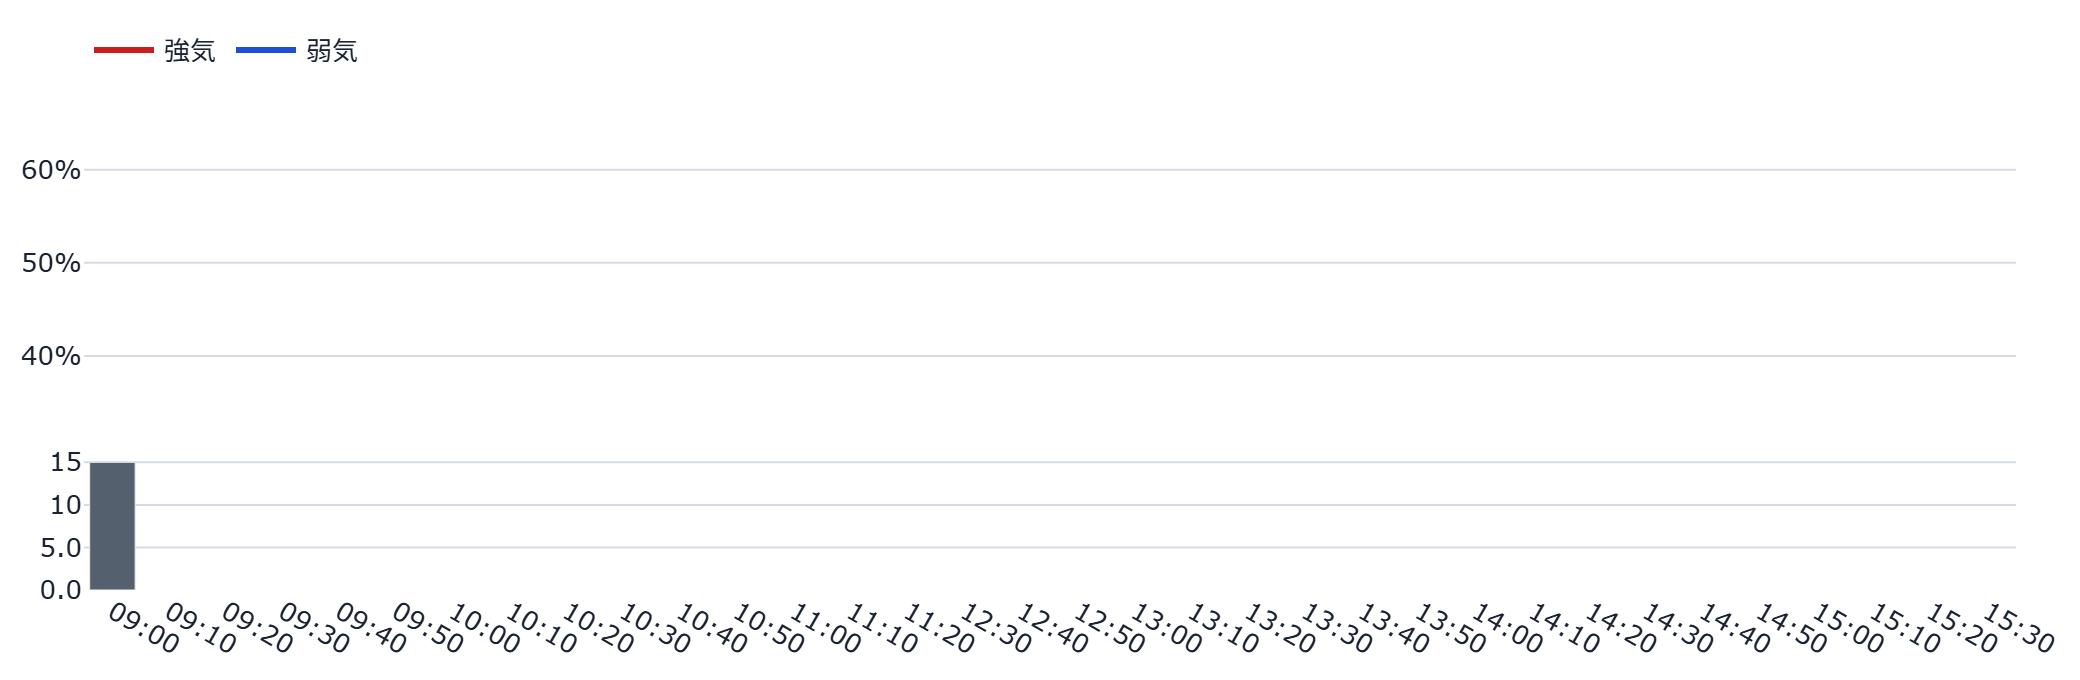
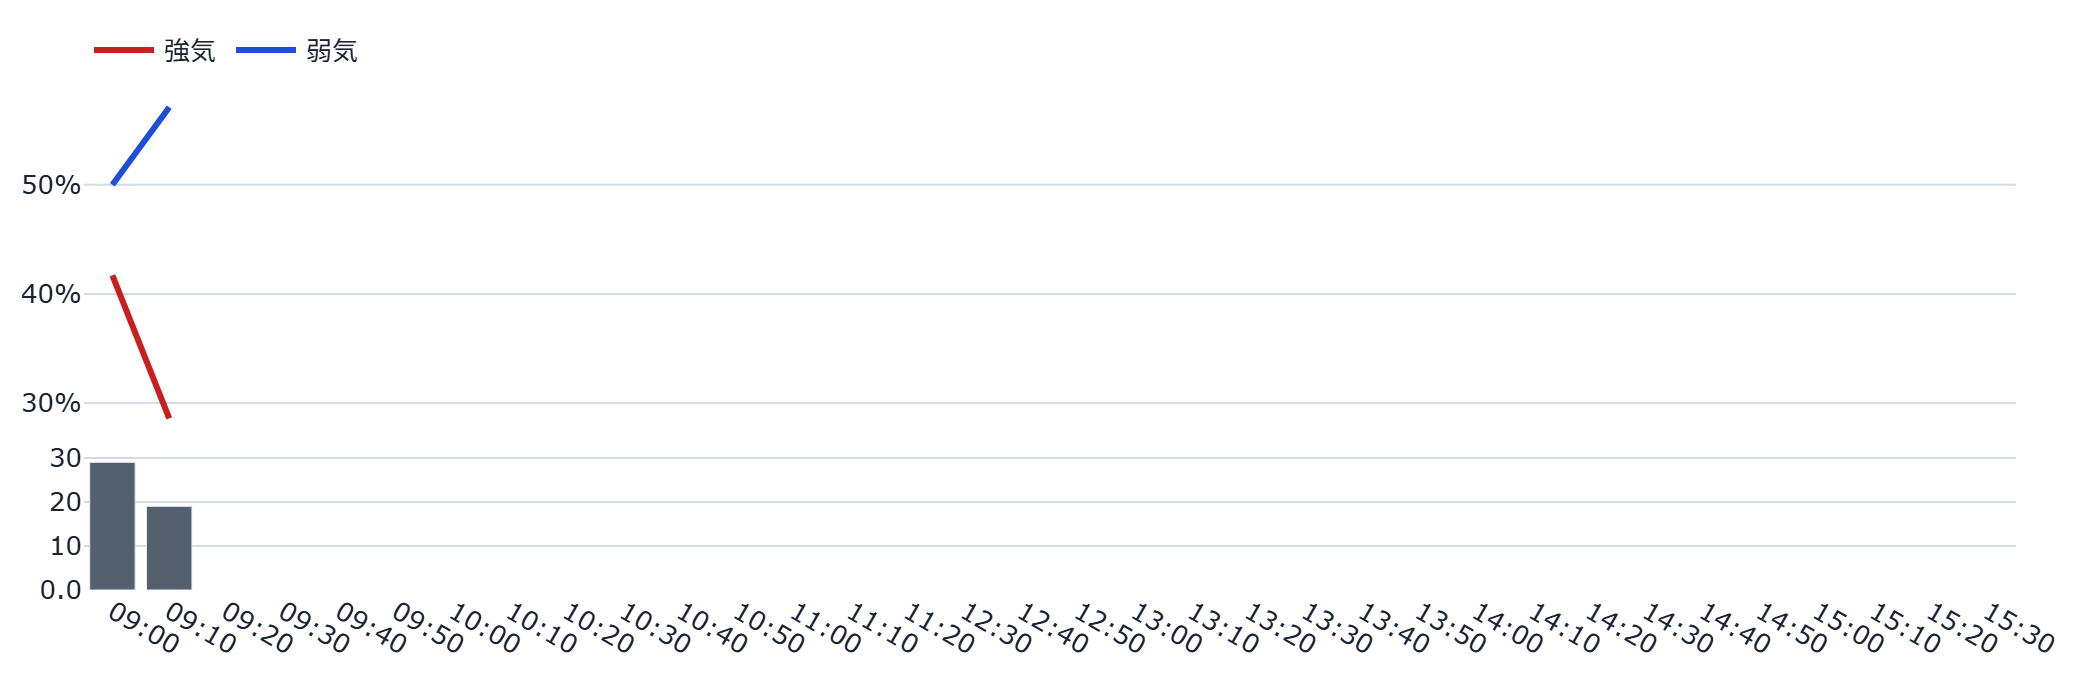
auto: refresh static dashboard (2026-11-28 09:26:10 JST)

diff --git a/docs/index.html b/docs/index.html
@@ -162,10 +162,10 @@
         <span class="price">8,450円</span>
         <span class="chg" style="color:#C81E1E">+8.86%</span><span class='caption'> 11/27終値・前営業日比</span>
       </div>
-      <p class="caption">更新時刻: 2026-11-28T09:06:40（データは1分間隔で自動生成され、このページも
+      <p class="caption">更新時刻: 2026-11-28T09:16:42（データは1分間隔で自動生成され、このページも
       60秒毎に自動再読み込みされます）</p>
       
-      <p id='visit-count-badge' class='caption'>👀 累計閲覧数: 15,634</p>
+      <p id='visit-count-badge' class='caption'>👀 累計閲覧数: 15,636</p>
       <p id='like-button-wrap' class='caption'><button id='like-button' type='button' style='cursor:pointer;border:1px solid var(--border);border-radius:6px;padding:1px 10px;margin-right:6px;background:var(--panel);color:var(--text);font-size:1em;vertical-align:middle'>👍</button><span id='like-count-label'>このダッシュボードが役に立ったら押してください（累計 4 いいね）</span></p>
 
       <!-- ★2026-11-23(ユーザー指示「おにやの公開ダッシュボードもタブの再整理・分割」): AI考察を独立タブ(先頭・既定)にし、
@@ -185,11 +185,11 @@
 
       <section data-tab-panel="aiinsight">
         <h2>🤖 AI考察</h2>
-        <div class='sum3' id='sum3'><div class='l'><span class='k'>値位置・時間外</span><span>285A 8,450円(11/27終値・前営業日比 +8.86%)｜11/28 09:06時点｜時間外(東証最終値比) PTS -1.48%・ADR -1.62%・DEX -1.78%</span></div><div class='l'><span class='k'>需給・セリクラ</span><span>前営業日(2026-11-27)のセリクラ成立チェック・大引け時点で確定(0/3)｜板の買い/売り比 0.77(11/27 15:30時点)</span></div><div class='l'><span class='k'>掲示板の心理</span><span>投稿の弱気 39.4%・強気 49.8%(本日1,825件)｜11/28 09:06時点</span></div><div class='n'>公開レコードの数値の言い換えです(予想ではありません)。</div></div>
+        <div class='sum3' id='sum3'><div class='l'><span class='k'>値位置・時間外</span><span>285A 8,450円(11/27終値・前営業日比 +8.86%)｜11/28 09:16時点｜時間外(東証最終値比) PTS -1.48%・ADR -1.62%・DEX -1.76%</span></div><div class='l'><span class='k'>需給・セリクラ</span><span>前営業日(2026-11-27)のセリクラ成立チェック・大引け時点で確定(0/3)｜板の買い/売り比 0.77(11/27 15:30時点)</span></div><div class='l'><span class='k'>掲示板の心理</span><span>投稿の弱気 39.7%・強気 49.4%(本日1,858件)｜11/28 09:16時点</span></div><div class='n'>公開レコードの数値の言い換えです(予想ではありません)。</div></div>
         <div class='panel' id='ai-schedule'><h3>🗓 AI考察の予定</h3><ul><li>平日の立会日に、寄り前 08:50／寄り直後 09:10／前場引け前 11:30／大引け後 15:45 の4時点で考察を更新します（考察はClaude(AI)が書きます）。</li><li>土日祝などの休場日は考察を書きません。</li><li>時点の間は、数値のみを約10分ごとに更新します（文章は次の時点まで更新されません）。</li><li>次の予定: 11-30 08:50（寄り前）／直近の更新: 11-27 09:10（自動生成）</li></ul></div>
-        <div class='panel' id='numeric-summary'><h3>📊 数値要約｜09:06 更新</h3><ul><li>株価: 8,450円（前営業日終値比 +8.86%）</li><li>掲示板: 強気 49.8%／弱気 39.4%／中立 10.8%・投稿 1,825件（約182件/時）</li><li>シグナル: 警戒＝ネームド集中(0.07)・話題枯れ(-0.87)／平常＝灼熱メーター(過熱)(10.2)・そう思う大量票(27)・イナゴ語彙(euphoria)(3)・他銘柄混入率(0.01)ほか</li><li>板・価格・見立て採点（参考・機械採点）: 板 買い/売り比 0.77（11/27 15:30時点）／約定ティック直近値 8,450円・VWAP距離 +213.9円（詳細は下の『板・価格まわり・見立ての採点』）</li><li>変化の読み: DEX: 1時間では上昇(+0.30%)だが直近5分は下げている(-0.10%)＝上昇基調の中の押し(短い窓だけの動きで、続くかは未確認)</li><li>変化の読み: 東証最終値比の水準: PTS -1.48%・米国ADR -1.62%・DEX -1.78%→いずれも東証最終値より下＝次の寄り付きが終値より低く始まる場合の水準感を示す材料(予告ではない)</li><li>変化点: 前回の数値要約から大きな変化なし</li></ul><div class='rc-wrap' id='recent-table'><table class='rc'><caption>直近変化（東証行の終値比は前営業日終値比、PTS・ADR・DEXは東証最終値比。最終約定から120分超の行は薄グレー＝立会時間外）</caption><thead><tr><th>市場</th><th>最終値(円)</th><th>終値比</th><th>5分</th><th>15分</th><th>1時間</th><th>最終約定</th></tr></thead><tbody><tr class='stale'><td>東証(立会時間外)</td><td>8,450</td><td class='pos'>+8.86%</td><td class='neg'>-0.59%</td><td class='pos'>+0.60%</td><td class='pos'>+1.38%</td><td>11/27 15:30</td></tr><tr class='stale'><td>PTS(立会時間外)</td><td>8,325</td><td class='neg'>-1.48%</td><td class=''>—</td><td class=''>—</td><td class=''>—</td><td>11/28 02:59</td></tr><tr class='stale'><td>米国ADR(立会時間外)</td><td>8,313</td><td class='neg'>-1.62%</td><td class='pos'>+1.19%</td><td class='pos'>+1.40%</td><td class='pos'>+0.61%</td><td>11/28 02:59</td></tr><tr class=''><td>DEX</td><td>8,301</td><td class='neg'>-1.78%</td><td class='neg'>-0.10%</td><td class='neg'>-0.01%</td><td class='pos'>+0.30%</td><td>11/28 09:15</td></tr></tbody></table></div><p class='caption'>強気・弱気は機械判定（辞書＋軽量モデル）の値です。日単位の向きはLM判定と近く（相関0.8台）、時間単位は粗い点に注意してください。</p></div>
+        <div class='panel' id='numeric-summary'><h3>📊 数値要約｜09:16 更新</h3><ul><li>株価: 8,450円（前営業日終値比 +8.86%）</li><li>掲示板: 強気 49.4%／弱気 39.7%／中立 10.9%・投稿 1,858件（約186件/時）</li><li>シグナル: 警戒＝ネームド集中(0.07)・話題枯れ(-0.87)／平常＝灼熱メーター(過熱)(10.2)・そう思う大量票(27)・イナゴ語彙(euphoria)(3)・他銘柄混入率(0.01)ほか</li><li>板・価格・見立て採点（参考・機械採点）: 板 買い/売り比 0.77（11/27 15:30時点）／約定ティック直近値 8,450円・VWAP距離 +213.9円（詳細は下の『板・価格まわり・見立ての採点』）</li><li>変化の読み: DEX: 1時間では上昇(+0.49%)だが直近5分は下げている(-0.14%)＝上昇基調の中の押し(短い窓だけの動きで、続くかは未確認)</li><li>変化の読み: 東証最終値比の水準: PTS -1.48%・米国ADR -1.62%・DEX -1.76%→いずれも東証最終値より下＝次の寄り付きが終値より低く始まる場合の水準感を示す材料(予告ではない)</li><li>変化点: 前回の数値要約から大きな変化なし</li></ul><div class='rc-wrap' id='recent-table'><table class='rc'><caption>直近変化（東証行の終値比は前営業日終値比、PTS・ADR・DEXは東証最終値比。最終約定から120分超の行は薄グレー＝立会時間外）</caption><thead><tr><th>市場</th><th>最終値(円)</th><th>終値比</th><th>5分</th><th>15分</th><th>1時間</th><th>最終約定</th></tr></thead><tbody><tr class='stale'><td>東証(立会時間外)</td><td>8,450</td><td class='pos'>+8.86%</td><td class='neg'>-0.59%</td><td class='pos'>+0.60%</td><td class='pos'>+1.38%</td><td>11/27 15:30</td></tr><tr class='stale'><td>PTS(立会時間外)</td><td>8,325</td><td class='neg'>-1.48%</td><td class=''>—</td><td class=''>—</td><td class=''>—</td><td>11/28 02:59</td></tr><tr class='stale'><td>米国ADR(立会時間外)</td><td>8,313</td><td class='neg'>-1.62%</td><td class='pos'>+1.19%</td><td class='pos'>+1.40%</td><td class='pos'>+0.61%</td><td>11/28 02:59</td></tr><tr class=''><td>DEX</td><td>8,309</td><td class='neg'>-1.76%</td><td class='neg'>-0.14%</td><td class=''>-0.00%</td><td class='pos'>+0.49%</td><td>11/28 09:25</td></tr></tbody></table></div><p class='caption'>強気・弱気は機械判定（辞書＋軽量モデル）の値です。日単位の向きはLM判定と近く（相関0.8台）、時間単位は粗い点に注意してください。</p></div>
         <div class='panel' id='screen-extras'><h3>🧭 板・価格まわり・見立ての採点（参考）</h3><ul><li>11/27 15:30時点｜買い総量 3,811.0万株／売り総量 4,928.1万株／比 0.77／差 -1,117.1万株</li><li>大引け(15:30)後は板が更新されないため、30秒〜5分の窓別の増減は意味がなく表示しません(上は大引け時点の板)。</li><li>11/27 15:30時点｜約定ティック直近値 8,450円(ヘッダーの株価とは取得元・時刻が異なる)／VWAP 8,236.1円（距離 +213.9円・+2.60%）</li><li>出来高 21,813.9万株／売買代金(試算) 17,966.1億円／日中高値 8,562円・安値 7,821円</li></ul><p class='caption'>板情報・約定ティック(遅延あり)から作成。売買代金は試算(VWAP×出来高)。</p></div>
-        <div class='metric-row'><div class='metric-card'><div class='metric-label'>株価</div><div class='metric-value'>8,450円</div><div class='metric-delta'>+0円</div></div><div class='metric-card'><div class='metric-label'>強気比率</div><div class='metric-value'>49.8%</div><div class='metric-delta'>+0.2pt</div></div><div class='metric-card'><div class='metric-label'>弱気比率</div><div class='metric-value'>39.4%</div><div class='metric-delta'>-0.1pt</div></div></div><p class='caption'>前回集計(2026-11-28T09:01:45)との比較</p>
+        <div class='metric-row'><div class='metric-card'><div class='metric-label'>株価</div><div class='metric-value'>8,450円</div><div class='metric-delta'>+0円</div></div><div class='metric-card'><div class='metric-label'>強気比率</div><div class='metric-value'>49.4%</div><div class='metric-delta'>-0.4pt</div></div><div class='metric-card'><div class='metric-label'>弱気比率</div><div class='metric-value'>39.7%</div><div class='metric-delta'>+0.3pt</div></div></div><p class='caption'>前回集計(2026-11-28T09:06:40)との比較</p>
         <div class='ai-box'>※無料公開データを機械的に集計した観測情報であり、投資助言・売買推奨ではありません。（11-27 寄り直後の整理・09:09時点の実測）<br>
 <br>
 ■ 285Aの寄り付き：時間外の水準より低い値で始まった<br>
@@ -228,7 +228,7 @@
             <h3>ボラ・レジーム帯</h3>
             <figure><img src='images/regime_band.png' alt='ボラ・レジーム帯' loading='lazy'></figure>
             <p class='caption'>現在レジーム: 較正中　(BVP=0.461)</p>
-            <div class='metric-row'><div class='metric-card'><div class='metric-label'>PTS（11/28 02:59）</div><div class='metric-value'>8,325円</div><div class='metric-delta' style='color:#1D4ED8'>-1.48%</div></div><div class='metric-card'><div class='metric-label'>米国ADR（11/28 02:59）</div><div class='metric-value'>8,313円</div><div class='metric-delta' style='color:#1D4ED8'>-1.62%</div></div><div class='metric-card'><div class='metric-label'>DEX（11/28 09:05）</div><div class='metric-value'>8,300円</div><div class='metric-delta' style='color:#1D4ED8'>-1.78%</div></div></div><p class='caption'>PTS=東証取引時間外の私設取引システム／ADR=米国預託証券／DEX=分散型取引所(Hyperliquid)の24時間取引・円換算(東証終値比。大引け後(15:30以降)のDEXの終値比は当日の確定終値基準です。ADR・PTSは東証最終値比)。翌営業日の値動きの参考情報です(それ自体が売買シグナルではありません)。</p>
+            <div class='metric-row'><div class='metric-card'><div class='metric-label'>PTS（11/28 02:59）</div><div class='metric-value'>8,325円</div><div class='metric-delta' style='color:#1D4ED8'>-1.48%</div></div><div class='metric-card'><div class='metric-label'>米国ADR（11/28 02:59）</div><div class='metric-value'>8,313円</div><div class='metric-delta' style='color:#1D4ED8'>-1.62%</div></div><div class='metric-card'><div class='metric-label'>DEX（11/28 09:15）</div><div class='metric-value'>8,301円</div><div class='metric-delta' style='color:#1D4ED8'>-1.76%</div></div></div><p class='caption'>PTS=東証取引時間外の私設取引システム／ADR=米国預託証券／DEX=分散型取引所(Hyperliquid)の24時間取引・円換算(東証終値比。大引け後(15:30以降)のDEXの終値比は当日の確定終値基準です。ADR・PTSは東証最終値比)。翌営業日の値動きの参考情報です(それ自体が売買シグナルではありません)。</p>
           </div>
         </div>
 
@@ -242,7 +242,7 @@
 <div class='signal-row'><div class='signal-name'>イナゴ語彙(euphoria)<div class='signal-desc'>「爆上げ」「握力」等、熱狂・便乗を示す語彙が投稿にどれだけ含まれるか。</div></div><div class='signal-meta'><div class='signal-note'>euphoria指数3.0/100投稿</div><div><span style='display:inline-block;border-radius:999px;padding:2px 10px;font-size:.82em;font-weight:600;color:#fff;background:#15803D;white-space:nowrap'>OK (現在値3.00 / 閾値&gt;=5.5/100投稿)</span></div><div class='signal-spark'><figure><img src='images/spark_signal_2.png' alt='イナゴ語彙(euphoria)の推移' loading='lazy'></figure></div></div></div>
 <div class='signal-row'><div class='signal-name'>ネームド集中<div class='signal-desc'>特定の常連投稿者(ハッシュ化ID)に投稿が偏っていないか(少数の声が目立ちすぎていないか)。</div></div><div class='signal-meta'><div class='signal-note'>上位5人シェア7%</div><div><span style='display:inline-block;border-radius:999px;padding:2px 10px;font-size:.82em;font-weight:600;color:#fff;background:#C2570B;white-space:nowrap'>警戒 (現在値0.07 / 閾値&gt;=0.1(発火)/&gt;=0.06(警戒))</span></div><div class='signal-spark'><figure><img src='images/spark_signal_3.png' alt='ネームド集中の推移' loading='lazy'></figure></div></div></div>
 <div class='signal-row'><div class='signal-name'>他銘柄混入率<div class='signal-desc'>本銘柄の掲示板で他の銘柄コードへの言及がどれだけ多いか(関心が他へ移りつつあるサイン)。メモリ/半導体ピア(MU・SOX・ハイニックス等)の言及は除外して数えます。 【定義変更 2026-11-26】この日から、①4桁数字の直後に単位(円・円台・株・万株・億円・倍・年・月・日・時・分)が続くもの(「5000円台」「6523円」等)と、②100の倍数の4桁数字(5000・6000など＝285A自身の株価水準の言及。「コード6000」「6000銘柄」「6000.T」等の明確な文脈がある時だけ数える)は、銘柄コードとして数えません。旧定義(全ての4桁を銘柄コード扱い)の値と連続しないため、11/25以前の履歴とは単純に比較できません。警戒/発火のしきい値は旧0.08/0.11の半分の0.04/0.055に『仮置き』しており、のちに新定義の履歴から再較正します(それまで暫定)。</div></div><div class='signal-meta'><div class='signal-note'>他銘柄言及1% (関心離散のサイン・メモリ/半導体ピアの言及は除外)</div><div><span style='display:inline-block;border-radius:999px;padding:2px 10px;font-size:.82em;font-weight:600;color:#fff;background:#15803D;white-space:nowrap'>OK (現在値0.01 / 閾値&gt;=0.055)</span></div><div class='signal-spark'><figure><img src='images/spark_signal_4.png' alt='他銘柄混入率の推移' loading='lazy'></figure></div></div></div>
-<div class='signal-row'><div class='signal-name'>暴落煽り語彙<div class='signal-desc'>「暴落」「終わった」等、悲観・煽りを示す語彙が投稿にどれだけ含まれるか。</div></div><div class='signal-meta'><div class='signal-note'>煽り指数2.8/100投稿</div><div><span style='display:inline-block;border-radius:999px;padding:2px 10px;font-size:.82em;font-weight:600;color:#fff;background:#15803D;white-space:nowrap'>OK (現在値2.80 / 閾値&gt;=5.0/100投稿)</span></div><div class='signal-spark'><figure><img src='images/spark_signal_5.png' alt='暴落煽り語彙の推移' loading='lazy'></figure></div></div></div>
+<div class='signal-row'><div class='signal-name'>暴落煽り語彙<div class='signal-desc'>「暴落」「終わった」等、悲観・煽りを示す語彙が投稿にどれだけ含まれるか。</div></div><div class='signal-meta'><div class='signal-note'>煽り指数2.9/100投稿</div><div><span style='display:inline-block;border-radius:999px;padding:2px 10px;font-size:.82em;font-weight:600;color:#fff;background:#15803D;white-space:nowrap'>OK (現在値2.90 / 閾値&gt;=5.0/100投稿)</span></div><div class='signal-spark'><figure><img src='images/spark_signal_5.png' alt='暴落煽り語彙の推移' loading='lazy'></figure></div></div></div>
 <div class='signal-row'><div class='signal-name'>阿鼻叫喚(セリクラ)<div class='signal-desc'>株価が安値圏にある中で悲観語彙が急増しているか(セリングクライマックスの兆候)。</div></div><div class='signal-meta'><div class='signal-note'>阿鼻叫喚スコア0.0 安値圏外</div><div><span style='display:inline-block;border-radius:999px;padding:2px 10px;font-size:.82em;font-weight:600;color:#fff;background:#15803D;white-space:nowrap'>OK (現在値0.00 / 閾値&gt;30)</span></div><div class='signal-spark'><figure><img src='images/spark_signal_6.png' alt='阿鼻叫喚(セリクラ)の推移' loading='lazy'></figure></div></div></div>
 <div class='signal-row'><div class='signal-name'>話題枯れ<div class='signal-desc'>過去の平均と比べて本日の投稿数が著しく少ないか(閑散・関心低下のサイン)。</div></div><div class='signal-meta'><div class='signal-note'>投稿数z=-0.87(同時刻比) (負=閑散)</div><div><span style='display:inline-block;border-radius:999px;padding:2px 10px;font-size:.82em;font-weight:600;color:#fff;background:#C2570B;white-space:nowrap'>警戒 (現在値-0.87 / 閾値z&lt;-1.0(発火)/z&lt;-0.5(警戒))</span></div><div class='signal-spark'><figure><img src='images/spark_signal_7.png' alt='話題枯れの推移' loading='lazy'></figure></div></div></div>
 <div class='signal-row'><div class='signal-name'>投稿サージ<div class='signal-desc'>過去の平均と比べて本日の投稿数が著しく多いか(急な注目集中のサイン)。</div></div><div class='signal-meta'><div class='signal-note'>投稿数z=-0.87(同時刻比) (量→ボラ予測が文献の主結果)</div><div><span style='display:inline-block;border-radius:999px;padding:2px 10px;font-size:.82em;font-weight:600;color:#fff;background:#15803D;white-space:nowrap'>OK (現在値-0.87 / 閾値z&gt;2.0)</span></div><div class='signal-spark'><figure><img src='images/spark_signal_8.png' alt='投稿サージの推移' loading='lazy'></figure></div></div></div></div>
@@ -318,7 +318,7 @@
       <hr style="border:none;border-top:1px solid var(--border);margin:2rem 0 1rem">
       <p class="caption">⚠ 本情報は掲示板投稿を統計的に集計したものであり、投資助言ではありません。個別の投稿内容は含まれていません。研究・エンタメ用途です。</p>
       <div id="disclaimer-all"><p class='caption'>板・約定ティックは遅延あり。売買の推奨ではありません。<br>見立ての採点は参考・機械採点で、売買の推奨ではありません。<br>※研究・エンタメ用途・未検証。売買シグナルではありません。<br>※ニュース見出しの要約であり、投資助言ではありません。</p></div>
-      <footer>生成: generate_static_dashboard.py（2026-11-28T09:16:02） /
+      <footer>生成: generate_static_dashboard.py（2026-11-28T09:26:02） /
       画像バックエンド: plotly+kaleido</footer>
     </div>
     <script>(function(){var url="https://script.google.com/macros/s/AKfycbwgSSGQ2n56ohmIYKlNDA1Xe3D8hd3GJbD0U90L4DGtXdb8pqrPokNMHJWjvN1__7bE/exec";var KEY='bbs_visit_counted';var already=sessionStorage.getItem(KEY);var action=already?'read':'hit';var ctrl=(typeof AbortController!=='undefined')?new AbortController():null;var timer=ctrl?setTimeout(function(){ctrl.abort();},5000):null;fetch(url+'?action='+action,{signal:ctrl?ctrl.signal:undefined}).then(function(r){if(timer)clearTimeout(timer);return r.json();}).then(function(data){if(!already)sessionStorage.setItem(KEY,'1');if(data&&typeof data.count==='number'){var el=document.getElementById('visit-count-badge');if(el){el.textContent='\u{1F440} \u7d2f\u8a08\u95b2\u89a7\u6570: '+data.count.toLocaleString();el.style.display='';}}}).catch(function(e){if(timer)clearTimeout(timer);console.warn('visit counter fetch failed (fail-soft):',e);});})();</script><script>(function(){var url="https://script.google.com/macros/s/AKfycbwgSSGQ2n56ohmIYKlNDA1Xe3D8hd3GJbD0U90L4DGtXdb8pqrPokNMHJWjvN1__7bE/exec";var KEY='bbs_liked';var btn=document.getElementById('like-button');var label=document.getElementById('like-count-label');if(!btn||!label)return;function renderLiked(count){btn.disabled=true;btn.style.cursor='default';btn.style.opacity='0.6';btn.textContent='\u2705';label.textContent="\u3044\u3044\u306d\u3057\u307e\u3057\u305f\uff01"+(typeof count==='number'?"\uff08\u7d2f\u8a08 "+count.toLocaleString()+" \u3044\u3044\u306d\uff09":'');}if(localStorage.getItem(KEY)){renderLiked(null);}btn.addEventListener('click',function(){if(localStorage.getItem(KEY))return;btn.disabled=true;var ctrl=(typeof AbortController!=='undefined')?new AbortController():null;var timer=ctrl?setTimeout(function(){ctrl.abort();},5000):null;fetch(url+'?action=like_hit',{signal:ctrl?ctrl.signal:undefined}).then(function(r){if(timer)clearTimeout(timer);return r.json();}).then(function(data){localStorage.setItem(KEY,'1');renderLiked(data&&typeof data.count==='number'?data.count:null);}).catch(function(e){if(timer)clearTimeout(timer);btn.disabled=false;console.warn('like button fetch failed (fail-soft):',e);});});})();</script><script>(function(){var DEFAULT_TAB='aiinsight';function activate(tabName){var buttons=document.querySelectorAll('.tab-bar .tab-btn');var panels=document.querySelectorAll('[data-tab-panel]');if(!buttons.length||!panels.length)return;var matched=false;panels.forEach(function(p){var on=p.getAttribute('data-tab-panel')===tabName;if(on)matched=true;p.classList.toggle('tab-hidden',!on);});if(!matched){panels.forEach(function(p){p.classList.toggle('tab-hidden',p.getAttribute('data-tab-panel')!==DEFAULT_TAB);});tabName=DEFAULT_TAB;}buttons.forEach(function(b){var on=b.getAttribute('data-tab')===tabName;b.classList.toggle('active',on);b.setAttribute('aria-selected',on?'true':'false');});}document.addEventListener('DOMContentLoaded',function(){var bar=document.getElementById('tabBar');if(!bar)return;bar.addEventListener('click',function(e){var btn=e.target.closest('.tab-btn');if(!btn)return;var nm=btn.getAttribute('data-tab');activate(nm);try{sessionStorage.setItem('oniya_active_tab',nm);}catch(e){}});var saved=null;try{saved=sessionStorage.getItem('oniya_active_tab');}catch(e){}activate(saved||DEFAULT_TAB);});})();</script></body></html>
